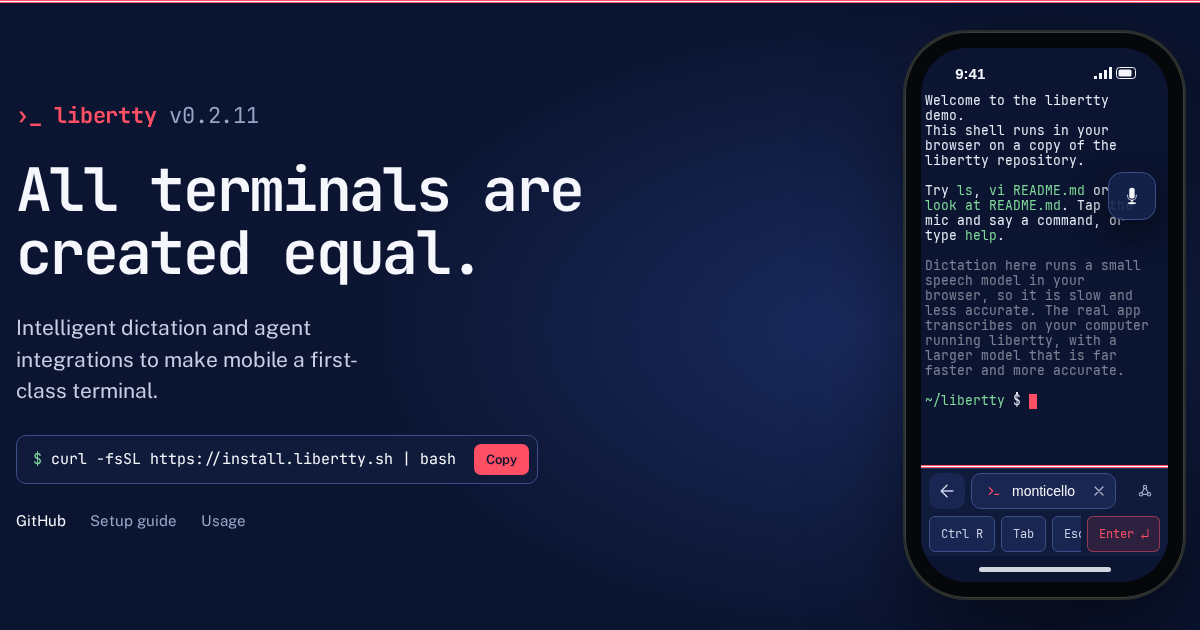
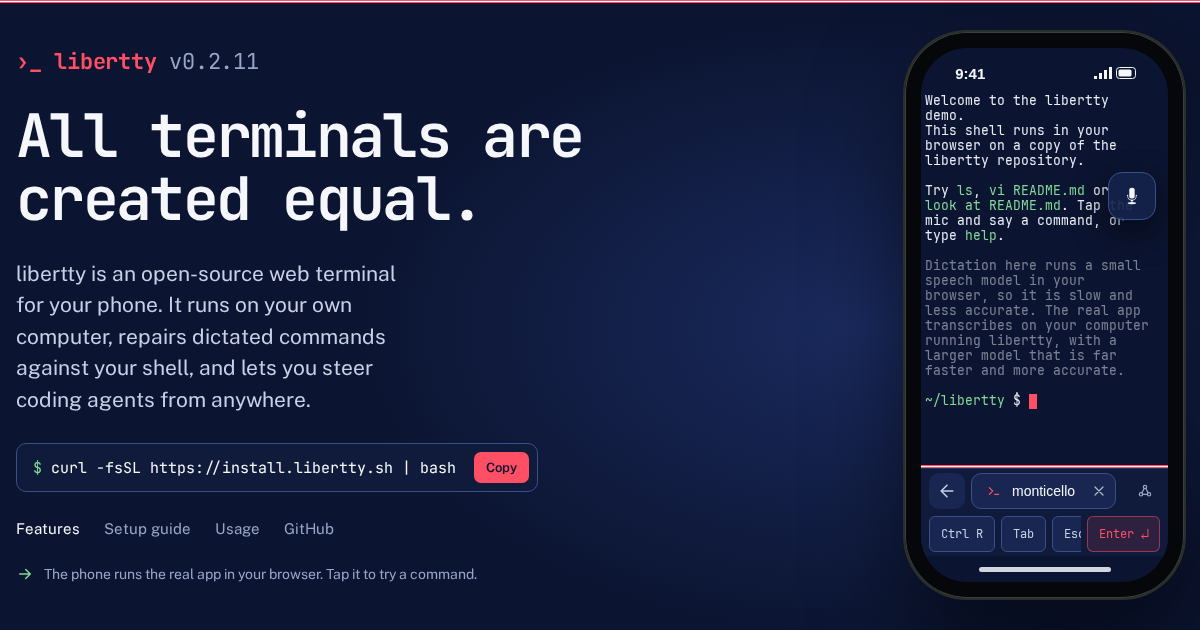
Explain the product below the landing page's phone
The lede now says what libertty is, and the page continues below the phone with four feature cards, three setup steps, the supported platforms and links to the guides.
Each feature card has a small picture of the app and links to the guide that covers it.
Phones still open on the full-screen app, so these sections only show on wider screens for now.
The link preview is retaken to show the new lede.

diff --git a/site/index.html b/site/index.html
@@ -42,7 +42,7 @@
     :root {
       color-scheme: light;
       --bg: #ffffff; --lift: #e3eaf6; --text: #0a2550; --text-2: #23406f; --muted: #475b82; --accent: #b31942; --accent-ink: #ffffff;
-      --command: #f3f6fb; --line: #7f93bb; --prompt: #1e6b2e; --shadow: #0a316140; --app: #fcfdff;
+      --command: #f3f6fb; --line: #7f93bb; --rule: #d3dcec; --prompt: #1e6b2e; --shadow: #0a316140; --app: #fcfdff;
       --band: linear-gradient(#0a3161, #0a3161) left / 180px 100% no-repeat, repeating-linear-gradient(180deg, #b31942 0 1px, #ffffff 1px 2px);
       --band-height: 13px;
       --mono: "JetBrains Mono", ui-monospace, SFMono-Regular, Menlo, monospace;
@@ -52,20 +52,21 @@
       :root {
         color-scheme: dark;
         --bg: #0b1430; --lift: #1a2a5e; --text: #f5f7fc; --text-2: #c8d0e6; --muted: #98a5c8; --accent: #ff4f64; --accent-ink: #0b1430;
-        --command: #101b3b; --line: #3a4f88; --prompt: #7fd99a; --shadow: #00000080; --app: #0b1430;
+        --command: #101b3b; --line: #3a4f88; --rule: #2a3a6e; --prompt: #7fd99a; --shadow: #00000080; --app: #0b1430;
         --band: linear-gradient(#ff4f64 0 1px, #f5f7fc 1px 2px, #ff4f64 2px 3px);
         --band-height: 3px;
       }
     }
     * { box-sizing: border-box; }
-    html, body { margin: 0; height: 100%; }
+    html, body { margin: 0; }
     body {
       background: radial-gradient(60vw 70vh at 72% 52%, var(--lift), var(--bg) 72%) var(--bg) fixed;
       color: var(--text); font-family: var(--sans);
       padding-left: max(16px, env(safe-area-inset-left, 0px)); padding-right: max(16px, env(safe-area-inset-right, 0px));
     }
     .band { position: fixed; inset: 0 0 auto; height: var(--band-height); background: var(--band); }
-    main { min-height: 100%; max-width: 1240px; margin: 0 auto; padding-block: 32px; display: grid; grid-template-columns: minmax(0, 1fr) auto; align-items: center; gap: clamp(32px, 6vw, 96px); }
+    main, footer > div { max-width: 1240px; margin: 0 auto; }
+    .hero { min-height: 100svh; padding-block: 32px; display: grid; grid-template-columns: minmax(0, 1fr) auto; align-items: center; gap: clamp(32px, 6vw, 96px); }
     .copy { display: grid; gap: 28px; max-width: 600px; }
     .mark { font: 700 22px var(--mono); color: var(--accent); letter-spacing: -0.01em; margin: 0; }
     .mark span { color: var(--muted); font-weight: 400; }
@@ -77,9 +78,10 @@
     .install button { flex: none; display: flex; align-items: center; gap: 6px; margin-left: 6px; border: 0; border-radius: 7px; padding: 8px 12px; background: var(--accent); color: var(--accent-ink); font: 600 13px var(--sans); cursor: pointer; }
     .install button:active { transform: translateY(1px); }
     :focus-visible { outline: 2px solid var(--accent); outline-offset: 2px; }
-    nav { display: flex; flex-wrap: wrap; gap: 24px; font-size: 15px; }
-    nav a { color: var(--muted); text-decoration: none; }
-    nav a:first-child, nav a:hover { color: var(--text); }
+    .copy nav { display: flex; flex-wrap: wrap; gap: 24px; font-size: 15px; }
+    .copy nav a { color: var(--muted); text-decoration: none; }
+    .copy nav a:first-child, .copy nav a:hover { color: var(--text); }
+    .try { display: flex; align-items: center; gap: 10px; margin: 0; font-size: 14px; color: var(--muted); }
     /* Only the screen inside the bezel is live. */
     .phone { justify-self: center; padding: 16px; border-radius: 62px; background: #05070a; box-shadow: 0 0 0 2px #2a2f2c, 0 40px 90px var(--shadow), inset 0 0 0 1px #3a403c; }
     .screen { display: flex; flex-direction: column; height: min(844px, calc(100dvh - 96px)); aspect-ratio: 390 / 844; border-radius: 46px; overflow: hidden; background: var(--app); color: var(--text); }
@@ -88,11 +90,62 @@
     .home { flex: none; height: 26px; display: grid; place-items: center; }
     .home::before { content: ""; width: 132px; height: 5px; border-radius: 3px; background: var(--text); opacity: .85; }
     .phone iframe { display: block; flex: 1; min-height: 0; width: 100%; border: 0; background: var(--app); }
+    /* Below the phone, the page explains the product and links to the guides. */
+    .more > section { display: grid; gap: 32px; padding-block: 72px; border-top: 1px solid var(--rule); }
+    .more > section:first-child { border-top: 0; }
+    .kicker { margin: 0 0 12px; font: 600 13px var(--mono); letter-spacing: .08em; text-transform: uppercase; color: var(--accent); }
+    h2 { margin: 0; font: 600 clamp(28px, 3.4vw, 40px) / 1.15 var(--mono); letter-spacing: -.035em; text-wrap: balance; }
+    h3 { margin: 0; font-size: 21px; font-weight: 600; }
+    .more p { margin: 0; font-size: 16px; line-height: 1.6; color: var(--text-2); max-width: 70ch; }
+    .more a { color: var(--accent); }
+    .features { display: grid; grid-template-columns: repeat(auto-fit, minmax(min(100%, 480px), 1fr)); gap: 24px; }
+    .feature { display: grid; align-content: start; gap: 16px; padding: 28px; border: 1px solid var(--rule); border-radius: 16px; background: var(--command); }
+    .feature a { font-weight: 500; }
+    .visual { display: grid; gap: 6px; min-height: 152px; align-content: center; padding: 14px; border-radius: 14px; background: var(--bg); font: 13px / 1.45 var(--mono); color: var(--text); }
+    .visual .muted { color: var(--muted); }
+    .choice { display: flex; align-items: center; gap: 12px; padding: 10px 12px; border: 1px solid transparent; border-radius: 10px; }
+    .choice.picked { border-color: var(--prompt); background: color-mix(in srgb, var(--prompt) 14%, transparent); }
+    .choice b { display: grid; place-items: center; flex: none; width: 28px; height: 28px; border-radius: 7px; background: var(--command); }
+    .choice.picked b { background: var(--prompt); color: var(--bg); }
+    .choice span { flex: 1; }
+    .ask { display: grid; gap: 2px; padding: 10px 12px; border: 1px solid var(--line); border-radius: 10px; }
+    .ask .picked { color: var(--accent); }
+    .spaces { display: flex; flex-wrap: wrap; gap: 6px 16px; padding: 8px 4px 0; border-top: 1px solid var(--rule); color: var(--muted); }
+    .spaces .blocked { color: var(--accent); }
+    .route { display: flex; align-items: center; gap: 10px; }
+    .route > span:first-child, .machine { flex: none; padding: 10px 12px; border: 1px solid var(--line); border-radius: 10px; }
+    .tunnel { flex: 1; display: grid; justify-items: center; gap: 4px; font-size: 11px; color: var(--muted); }
+    .tunnel::after { content: ""; width: 100%; height: 1px; background: var(--line); }
+    .machine { display: grid; gap: 4px; border-color: var(--accent); color: var(--text-2); }
+    .machine strong { color: var(--accent); font-weight: 400; }
+    .keys { display: flex; flex-wrap: wrap; gap: 8px; }
+    .keys span { padding: 10px 12px; border: 1px solid var(--line); border-radius: 8px; color: var(--text-2); }
+    .keys span:last-child { border-color: var(--accent); color: var(--accent); }
+    .steps { counter-reset: step; list-style: none; margin: 0; padding: 0; display: grid; grid-template-columns: repeat(auto-fit, minmax(min(100%, 300px), 1fr)); gap: 32px; }
+    .steps li { counter-increment: step; display: grid; align-content: start; gap: 12px; }
+    .steps li::before { content: "0" counter(step); font: 700 36px var(--mono); color: var(--line); }
+    .button { justify-self: start; display: inline-flex; align-items: center; min-height: 44px; padding: 0 20px; border-radius: 10px; background: var(--accent); font-weight: 600; text-decoration: none; }
+    .more .button { color: var(--accent-ink); }
+    .table { overflow-x: auto; border: 1px solid var(--rule); border-radius: 14px; }
+    table { width: 100%; min-width: 640px; border-collapse: collapse; font-size: 15px; color: var(--text-2); }
+    th, td { padding: 14px 20px; text-align: left; }
+    th { background: var(--command); color: var(--text); font-weight: 600; }
+    td:first-child { color: var(--text); }
+    tbody tr { border-top: 1px solid var(--rule); }
+    .docs { list-style: none; margin: 0; padding: 0; display: grid; grid-template-columns: repeat(auto-fit, minmax(min(100%, 340px), 1fr)); gap: 16px; }
+    .docs a { display: grid; gap: 6px; height: 100%; box-sizing: border-box; padding: 20px; border: 1px solid var(--rule); border-radius: 12px; color: var(--text); font-weight: 600; text-decoration: none; }
+    .docs a:hover { border-color: var(--accent); }
+    .docs span { font-size: 15px; font-weight: 400; color: var(--muted); }
+    footer { border-top: 1px solid var(--rule); }
+    footer > div { display: flex; flex-wrap: wrap; align-items: center; justify-content: space-between; gap: 16px; padding-block: 32px; font-size: 14px; color: var(--muted); }
+    footer p { margin: 0; }
+    footer .mark { font-size: 16px; }
+    footer a { color: var(--muted); }
     /* On a phone the page is the app itself. */
     @media (max-width: 760px) {
       body { padding: 0; background: var(--bg); overflow: hidden; }
-      .band, .copy { display: none; }
-      main { display: block; padding: 0; }
+      .band, .copy, .more, footer { display: none; }
+      .hero { display: block; padding: 0; }
       /* The app inside the frame cannot see the notch or home indicator, so the page keeps it clear of them. */
       .phone { position: fixed; inset: 0 0 auto; height: var(--viewport-height, 100%); justify-self: stretch; padding: env(safe-area-inset-top, 0px) env(safe-area-inset-right, 0px) env(safe-area-inset-bottom, 0px) env(safe-area-inset-left, 0px); border-radius: 0; box-shadow: none; background: var(--app); }
       .screen { width: 100%; height: 100%; aspect-ratio: auto; border-radius: 0; }
@@ -103,23 +156,128 @@
 <body>
   <div class="band" aria-hidden="true"></div>
   <main>
-    <section class="copy" aria-labelledby="headline">
+    <section class="hero" aria-labelledby="headline">
+    <div class="copy">
       <p class="mark">›_ libertty <span>v0.2.11</span></p>
       <h1 id="headline">All terminals are created equal.</h1>
-      <p class="lede">Intelligent dictation and agent integrations to make mobile a first-class terminal.</p>
+      <p class="lede">libertty is an open-source web terminal for your phone. It runs on your own computer, repairs dictated commands against your shell, and lets you steer coding agents from anywhere.</p>
       <div class="install"><code id="install">curl -fsSL https://install.libertty.sh | bash</code><button id="copy" type="button" aria-label="Copy the install command">Copy</button></div>
       <nav aria-label="Project">
-        <a href="https://github.com/nick1udwig/libertty">GitHub</a>
+        <a href="#features">Features</a>
         <a href="./setup/">Setup guide</a>
         <a href="./usage/">Usage</a>
+        <a href="https://github.com/nick1udwig/libertty">GitHub</a>
       </nav>
-    </section>
+      <p class="try"><svg width="18" height="18" viewBox="0 0 24 24" fill="none" stroke="var(--prompt)" stroke-width="2" stroke-linecap="round" stroke-linejoin="round" aria-hidden="true"><path d="M5 12h14M13 6l6 6-6 6"/></svg>The phone runs the real app in your browser. Tap it to try a command.</p>
+    </div>
     <div class="phone"><div class="screen">
       <div class="status" aria-hidden="true"><span>9:41</span><svg width="44" height="12" viewBox="0 0 44 12" fill="currentColor"><path d="M0 9h3v3H0zM5 6h3v6H5zM10 3h3v9h-3zM15 0h3v12h-3z"/><rect x="22.5" y=".5" width="19" height="11" rx="3" fill="none" stroke="currentColor"/><rect x="24.5" y="2.5" width="13" height="7" rx="1.5"/><path d="M43 4v4"/></svg></div>
       <iframe id="app" title="libertty running in a phone" allow="microphone; clipboard-read; clipboard-write; screen-wake-lock"></iframe>
       <div class="home" aria-hidden="true"></div>
     </div></div>
+    </section>
+    <div class="more">
+      <section id="features" aria-labelledby="features-title">
+        <div>
+          <p class="kicker">What it does</p>
+          <h2 id="features-title">Your terminal, built for mobile</h2>
+        </div>
+        <div class="features">
+          <article class="feature">
+            <div class="visual" aria-hidden="true">
+              <div class="choice picked"><b>›_</b><span>cd ~/git/hello-world</span><span class="muted">1</span></div>
+              <div class="choice"><b><svg width="16" height="16" viewBox="0 0 24 24" fill="none" stroke="currentColor" stroke-width="2" stroke-linejoin="round"><path d="M4 5h16v11H9l-5 4z"/></svg></b><span class="muted">cd tilde slash git slash hello world</span><span class="muted">2</span></div>
+            </div>
+            <h3>Dictation that knows your shell</h3>
+            <p>Say a command and libertty repairs it against your commands, files and history. The literal transcript stays one tap away as an alternative.</p>
+            <a href="./usage/#dictation">How dictation repair works →</a>
+          </article>
+          <article class="feature">
+            <div class="visual" aria-hidden="true">
+              <div><span style="color: var(--prompt)">●</span> Quick checks passed. The full suite is next.</div>
+              <div class="ask">
+                <strong>Bash command</strong>
+                <span>npm run verify:local</span>
+                <span class="picked">❯ 1. Yes</span>
+                <span class="muted">  2. No, and tell Claude what to do</span>
+              </div>
+              <div class="spaces"><span class="blocked">● feat-1776-theme</span><span>◌ feat-webpage</span><span>✓ daylight-colors</span></div>
+            </div>
+            <h3>Coding agents on your mobile</h3>
+            <p>Open Herdr sessions from any host to watch agents, answer permission prompts and give instructions by voice. A notification tells you when work is done.</p>
+            <a href="./herdr/">Using agents with Herdr →</a>
+          </article>
+          <article class="feature">
+            <div class="visual" aria-hidden="true">
+              <div class="route">
+                <span>phone</span>
+                <span class="tunnel">tailnet · HTTPS</span>
+                <span class="machine"><strong>your computer</strong><span>libertty server</span><span>Voxtype Mobile</span><span>Herdr</span></span>
+              </div>
+            </div>
+            <h3>Self-hosted and private</h3>
+            <p>The server runs on your own Linux or macOS machine, and your phone reaches it over Tailscale. Voxtype Mobile transcribes speech beside the server, so audio stays on your hardware.</p>
+            <a href="./setup/#tailscale-setup">How self-hosting works →</a>
+          </article>
+          <article class="feature">
+            <div class="visual" aria-hidden="true">
+              <div class="keys"><span>Ctrl R</span><span>Tab</span><span>Esc</span><span>Ctrl</span><span>↑</span><span>↓</span><span>Enter ↵</span></div>
+            </div>
+            <h3>A real terminal, made for mobile</h3>
+            <p>Ghostty rendering, a key bar for Ctrl, Tab, Esc and arrows, SSH hosts, file uploads and downloads, and a reader for files and command output.</p>
+            <a href="./usage/#touch-controls">Touch controls in the usage guide →</a>
+          </article>
+        </div>
+      </section>
+      <section aria-labelledby="steps-title">
+        <div>
+          <p class="kicker">Get started</p>
+          <h2 id="steps-title">Set up in three steps</h2>
+        </div>
+        <ol class="steps">
+          <li><h3>Install on your computer</h3><p>Run the one-line installer. It sets up the background service and offers Herdr, Voxtype Mobile and Tailscale.</p></li>
+          <li><h3>Join your tailnet</h3><p>Install Tailscale on your phone and sign in to the same tailnet. Setup configures private HTTPS access for libertty.</p></li>
+          <li><h3>Pair your phone</h3><p>Open the URL that setup prints, enter the pairing token, and add libertty to your home screen.</p></li>
+        </ol>
+        <a class="button" href="./setup/">Read the setup guide</a>
+      </section>
+      <section id="platforms" aria-labelledby="platforms-title">
+        <div>
+          <p class="kicker">Platforms</p>
+          <h2 id="platforms-title">Runs on the machines you already use</h2>
+        </div>
+        <div class="table">
+          <table>
+            <thead><tr><th scope="col">Server</th><th scope="col">Requirements</th><th scope="col">Background service</th><th scope="col">Automatic companions</th></tr></thead>
+            <tbody>
+              <tr><td>Linux x86_64</td><td>glibc 2.39+, Bash 4.4+, Python 3.8+</td><td>systemd user service</td><td>Herdr and Voxtype Mobile</td></tr>
+              <tr><td>Linux ARM64</td><td>glibc 2.39+, Bash 4.4+, Python 3.8+</td><td>systemd user service</td><td>Herdr and Voxtype Mobile</td></tr>
+              <tr><td>macOS Apple Silicon</td><td>macOS 15+, Homebrew, Bash 4.4+, Python 3.8+</td><td>Login LaunchAgent</td><td>Herdr</td></tr>
+            </tbody>
+          </table>
+        </div>
+        <p>On your phone, use a modern mobile browser and add libertty to your home screen. Windows, Intel Macs, Alpine Linux and 32-bit ARM are not release targets.</p>
+      </section>
+      <section aria-labelledby="docs-title">
+        <h2 id="docs-title">Documentation</h2>
+        <ul class="docs">
+          <li><a href="./setup/">Setup guide<span>Installer, companions, Tailscale and services.</span></a></li>
+          <li><a href="./usage/">Usage guide<span>Hosts, pairing, dictation, touch controls and files.</span></a></li>
+          <li><a href="./herdr/">Herdr agents<span>Sessions, mobile sizing and notifications.</span></a></li>
+          <li><a href="./usage/#dictation">Dictation<span>Command repair, alternatives and Voxtype Mobile.</span></a></li>
+          <li><a href="./reference/">Technical reference<span>Shell integration, deployment and testing.</span></a></li>
+          <li><a href="https://github.com/nick1udwig/libertty/blob/master/docs/pairing-security.md">Pairing security<span>How pairing protects your machine.</span></a></li>
+        </ul>
+      </section>
+    </div>
   </main>
+  <footer>
+    <div>
+      <p class="mark">›_ libertty</p>
+      <p>Open source under the MIT license.</p>
+      <nav aria-label="Footer"><a href="./setup/">Setup</a> · <a href="./usage/">Usage</a> · <a href="https://github.com/nick1udwig/libertty">GitHub</a></nav>
+    </div>
+  </footer>
   <script>
     // Phones get the app full-screen, opening on the README; desktops get it inside the phone, opening on the terminal.
     const phone = matchMedia('(max-width: 760px)').matches, app = document.getElementById('app');

diff --git a/docs/site.md b/docs/site.md
@@ -1,7 +1,8 @@
 # Project site
 
 The project site in `site/` is a landing page around a working demo of libertty.
-On desktop the page shows a phone whose screen runs the real app, and on a phone the page is only the app.
+On desktop the page shows a phone whose screen runs the real app, with sections below that explain the features, setup steps and platforms and link to the guides.
+On a phone the page is only the app.
 The page follows the system appearance, using the 1776 theme in dark mode and the flag theme in light mode.
 
 ## Build and preview
